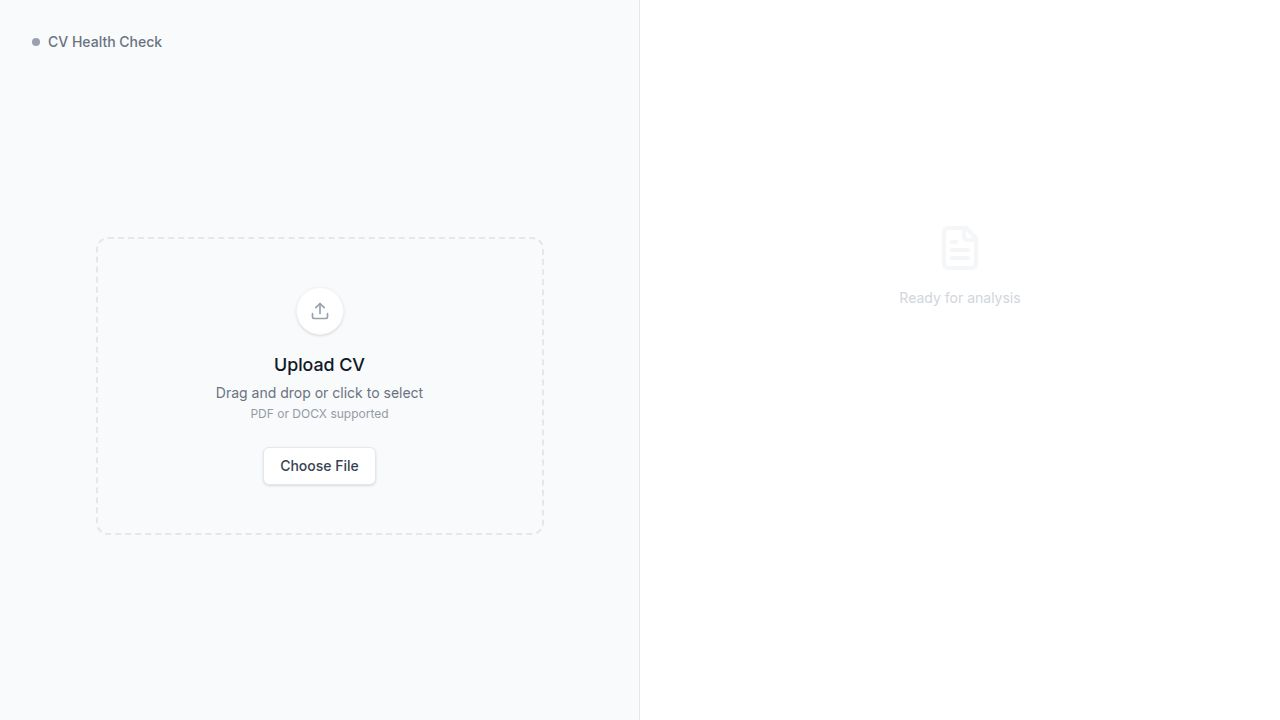
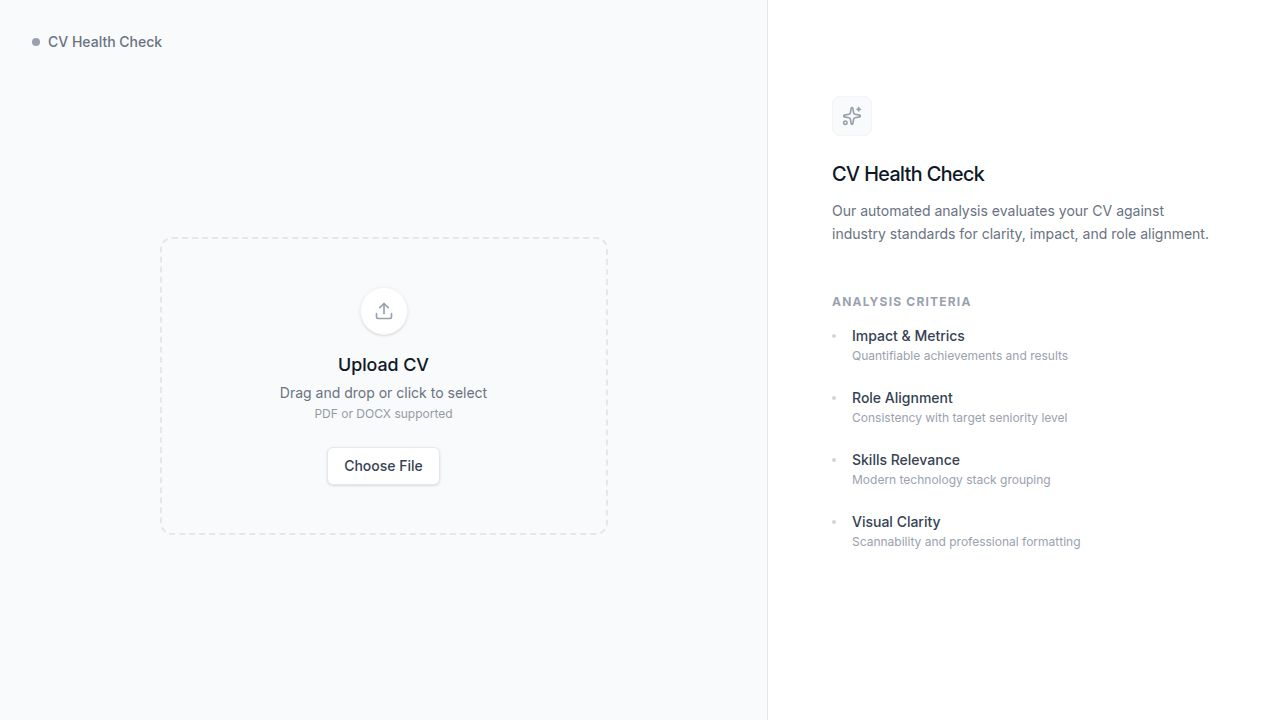
Add introductory content and analysis criteria to the CV health check tool
Replace the initial "Ready for analysis" state with a detailed introduction and criteria list in `client/src/pages/home.tsx`.

Replit-Commit-Author: Agent
Replit-Commit-Session-Id: 11ecb62d-82ec-449c-9ea8-10b1147a620e
Replit-Commit-Checkpoint-Type: full_checkpoint
Replit-Commit-Event-Id: ca1cf4be-2ff8-4e38-9471-2de49c62c10f
Replit-Commit-Screenshot-Url: https://storage.googleapis.com/screenshot-production-us-central1/ff03f9c9-b1ac-42f2-8714-c307b75bec09/11ecb62d-82ec-449c-9ea8-10b1147a620e/dExPDfl
Replit-Helium-Checkpoint-Created: true

diff --git a/client/src/pages/home.tsx b/client/src/pages/home.tsx
@@ -421,10 +421,42 @@ export default function Home() {
                 initial={{ opacity: 0 }}
                 animate={{ opacity: 1 }}
                 exit={{ opacity: 0 }}
-                className="h-full flex flex-col items-center justify-center text-center text-gray-300 space-y-4 pt-32"
+                className="h-full flex flex-col justify-center max-w-sm mx-auto"
               >
-                <FileText className="w-12 h-12 opacity-20" />
-                <p className="text-sm">Ready for analysis</p>
+                <div className="mb-12">
+                   <div className="w-10 h-10 bg-gray-50 rounded-lg flex items-center justify-center mb-6 border border-gray-100">
+                      <Sparkles className="w-5 h-5 text-gray-400" />
+                   </div>
+                   <h2 className="text-xl font-medium text-gray-900 mb-3 tracking-tight">CV Health Check</h2>
+                   <p className="text-sm text-gray-500 leading-relaxed">
+                     Our automated analysis evaluates your CV against industry standards for clarity, impact, and role alignment.
+                   </p>
+                </div>
+
+                <div className="space-y-6">
+                  <h3 className="text-xs font-bold text-gray-400 uppercase tracking-widest mb-4 font-sans">Analysis Criteria</h3>
+                  
+                  {[
+                    { label: "Impact & Metrics", desc: "Quantifiable achievements and results" },
+                    { label: "Role Alignment", desc: "Consistency with target seniority level" },
+                    { label: "Skills Relevance", desc: "Modern technology stack grouping" },
+                    { label: "Visual Clarity", desc: "Scannability and professional formatting" }
+                  ].map((item, idx) => (
+                    <motion.div 
+                      key={item.label}
+                      initial={{ opacity: 0, x: 20 }}
+                      animate={{ opacity: 1, x: 0 }}
+                      transition={{ delay: idx * 0.1 }}
+                      className="flex gap-4"
+                    >
+                      <div className="w-1 h-1 rounded-full bg-gray-300 mt-2 flex-shrink-0" />
+                      <div>
+                        <h4 className="text-sm font-medium text-gray-700 mb-0.5">{item.label}</h4>
+                        <p className="text-xs text-gray-400">{item.desc}</p>
+                      </div>
+                    </motion.div>
+                  ))}
+                </div>
               </motion.div>
             ) : state === "scanning" ? (
               <div className="space-y-12 pt-8">
